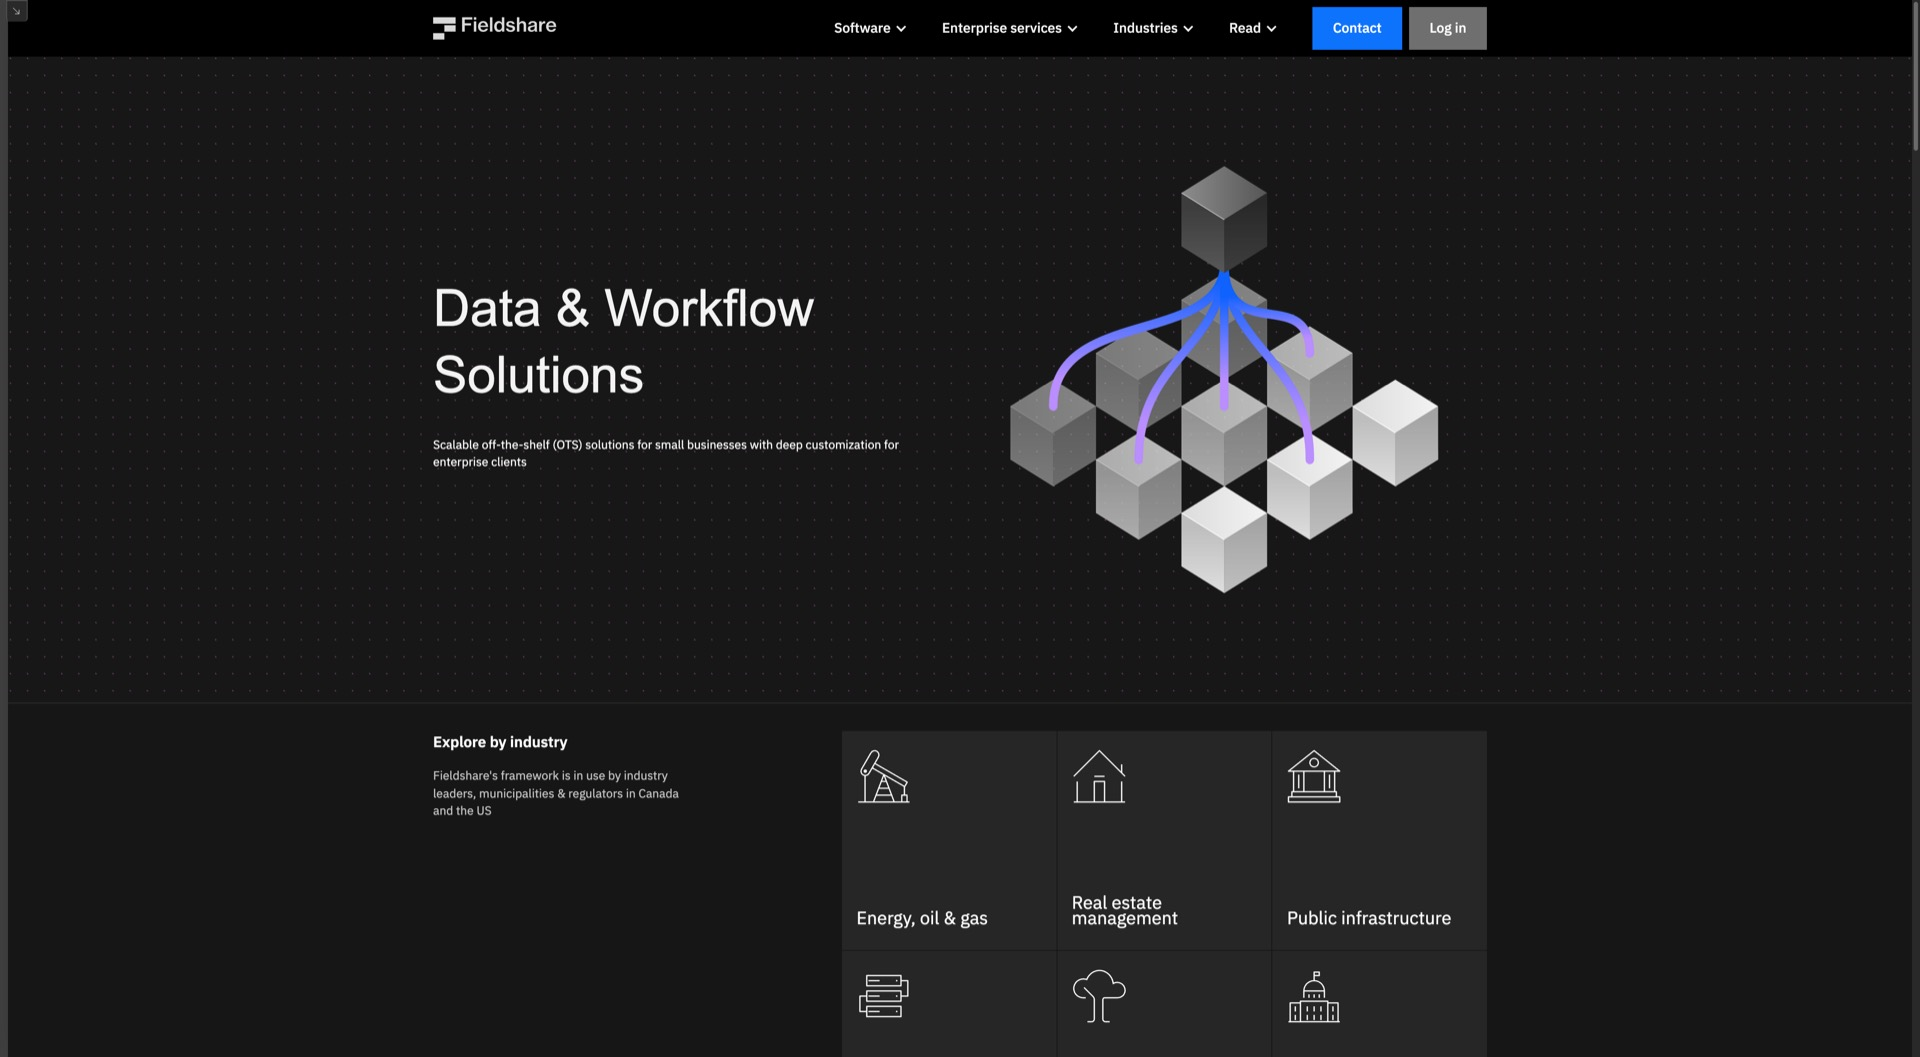
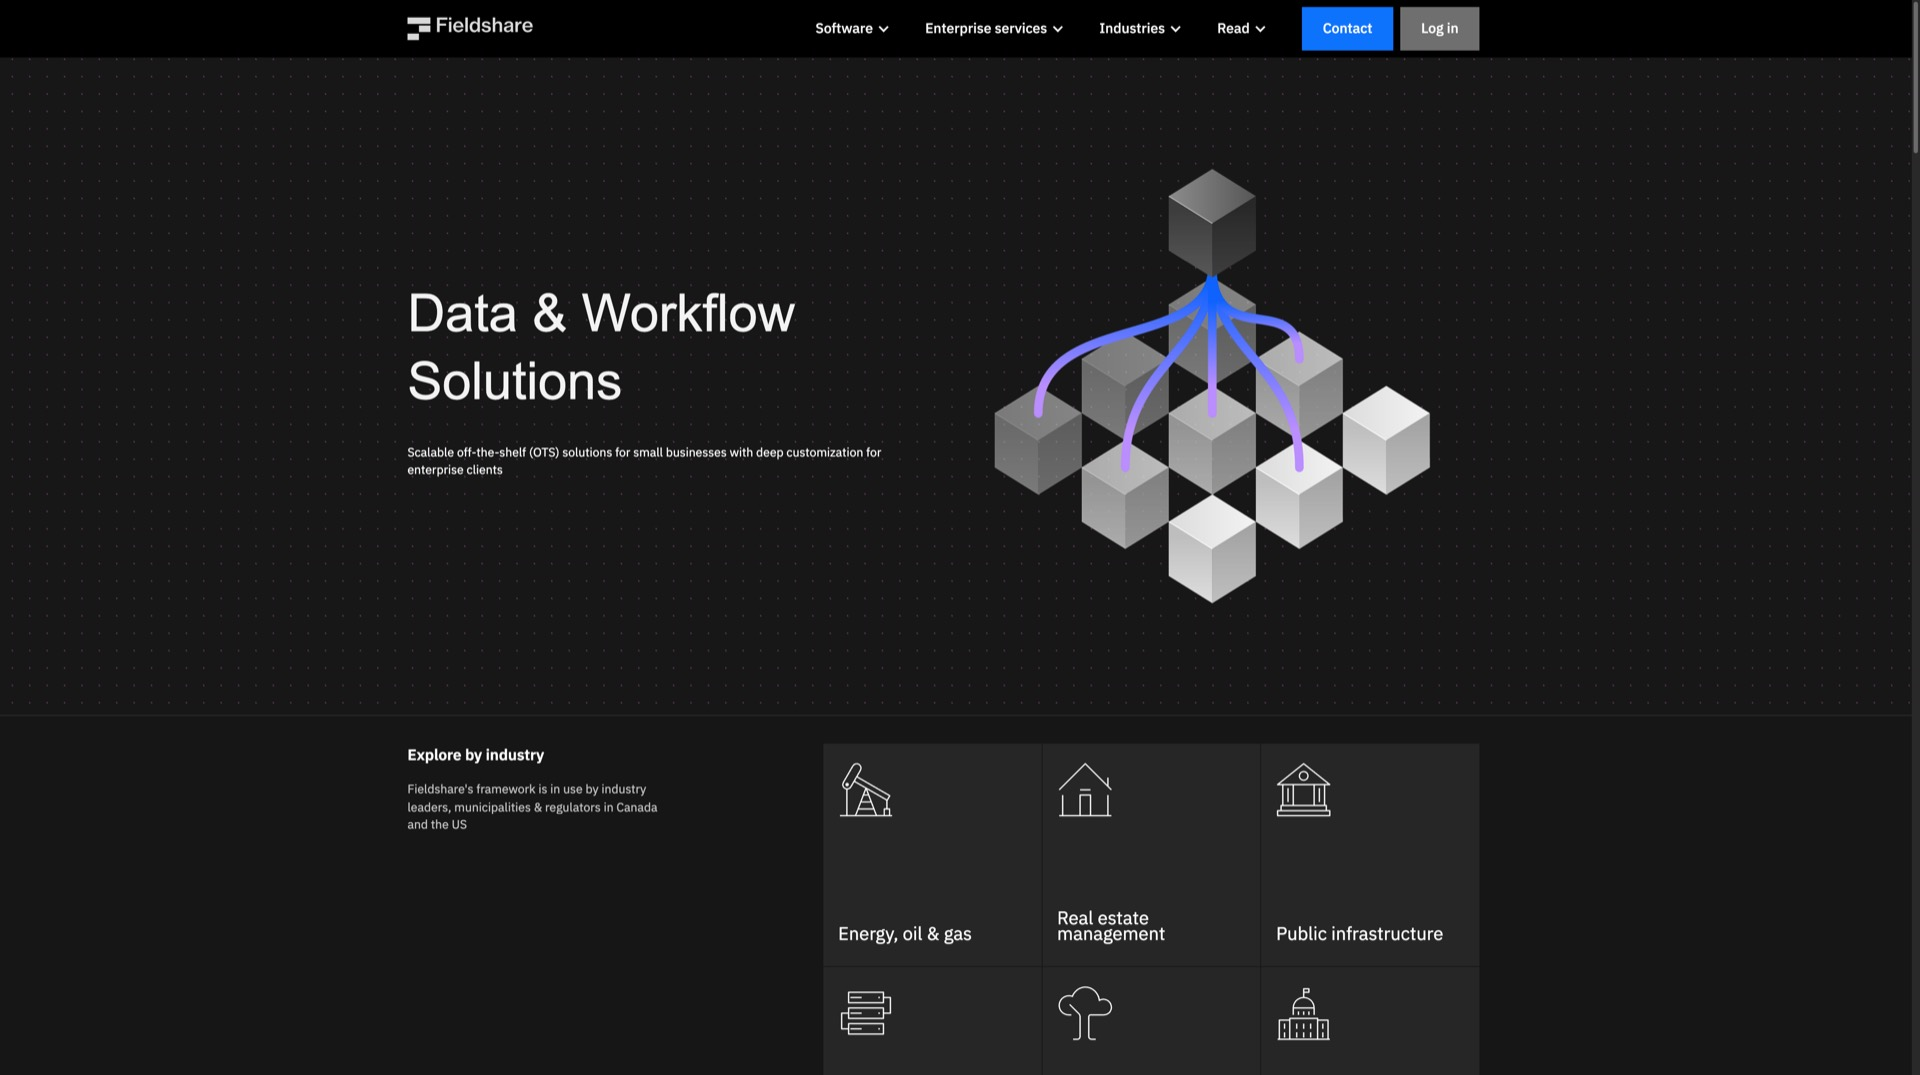
fix: CTA copy, section labels, slider animation, colors, form cleanup
- CTA: capitalize FREE in button, replace "No strings" with "Delivered
  to your inbox in 72 hours"
- Remove 4 of 5 uppercase section labels (keep only on process, matching
  homepage pattern)
- Comparison slider: auto-slide hint animation on first viewport entry
- ServiceFaq: bg-accent-light replaced with bg-background
- Remove Rahul photo from form section
- Replace Fieldshare before screenshot with updated version

diff --git a/src/components/ui/imageComparisonSlider.jsx b/src/components/ui/imageComparisonSlider.jsx
@@ -12,6 +12,7 @@ export default function ImageComparisonSlider({
 }) {
   const [position, setPosition] = useState(initialPosition);
   const [isDragging, setIsDragging] = useState(false);
+  const [hasInteracted, setHasInteracted] = useState(false);
   const containerRef = useRef(null);
 
   const handleMove = useCallback((clientX) => {
@@ -53,12 +54,48 @@ export default function ImageComparisonSlider({
     };
   }, [isDragging, handleMouseMove, handleTouchMove, stopDragging]);
 
+  useEffect(() => {
+    if (hasInteracted) return;
+    const observer = new IntersectionObserver(
+      ([entry]) => {
+        if (!entry.isIntersecting) return;
+        observer.disconnect();
+        const timeout = setTimeout(() => {
+          let frame = 0;
+          const totalFrames = 40;
+          const animate = () => {
+            frame++;
+            const progress = frame / totalFrames;
+            const eased = 1 - Math.pow(1 - progress, 3);
+            if (frame <= totalFrames / 2) {
+              setPosition(50 - eased * 20);
+            } else {
+              setPosition(30 + (eased - 0.5) * 2 * 20);
+            }
+            if (frame < totalFrames) requestAnimationFrame(animate);
+            else setPosition(50);
+          };
+          requestAnimationFrame(animate);
+        }, 600);
+        return () => clearTimeout(timeout);
+      },
+      { threshold: 0.5 }
+    );
+    if (containerRef.current) observer.observe(containerRef.current);
+    return () => observer.disconnect();
+  }, [hasInteracted]);
+
+  const startInteraction = () => {
+    setIsDragging(true);
+    setHasInteracted(true);
+  };
+
   return (
     <div
       ref={containerRef}
       className={cn('relative w-full overflow-hidden select-none group rounded-2xl', className)}
-      onMouseDown={() => setIsDragging(true)}
-      onTouchStart={() => setIsDragging(true)}
+      onMouseDown={startInteraction}
+      onTouchStart={startInteraction}
     >
       <img
         src={beforeImage}

diff --git a/src/pages/services/WebDesign.jsx b/src/pages/services/WebDesign.jsx
@@ -258,11 +258,11 @@ export default function WebDesign() {
             onClick={() => window.dataLayer?.push({ event: 'cta_click', cta_location: 'web_design_hero' })}
             className="inline-flex items-center gap-2 rounded-xl bg-accent px-10 py-4 font-sans font-bold text-lg text-white shadow-[0_0_20px_rgba(0,112,243,0.3)] transition-all hover:bg-accent/90 hover:shadow-[0_0_30px_rgba(0,112,243,0.4)] animate-[subtlePulse_3s_ease-in-out_infinite]"
           >
-            Get a free homepage mockup
+            Get a FREE homepage mockup
             <ArrowRight size={18} strokeWidth={2} className="opacity-70" />
           </Link>
           <p className="mt-4 font-caveat text-xl text-textMuted">
-            Free. 72 hours. No strings.
+            Delivered to your inbox in 72 hours.
           </p>
         </div>
       </section>
@@ -270,9 +270,6 @@ export default function WebDesign() {
       {/* ── PORTFOLIO SHOWCASE ── */}
       <section className="bg-background py-16 md:py-24 px-6 md:px-12">
         <div className="max-w-6xl mx-auto">
-          <p className="hr-reveal opacity-0 mb-4 font-sans text-sm uppercase tracking-[0.2em] text-accent">
-            Our work
-          </p>
           <h2 className="hr-reveal opacity-0 font-sans font-extrabold text-2xl md:text-4xl tracking-tight leading-[1.1] text-text mb-4">
             Every site is different. Because every business is.
           </h2>
@@ -359,9 +356,6 @@ export default function WebDesign() {
       {/* ── 2. PAIN / PROBLEM ── */}
       <section className="bg-surface py-20 md:py-28 px-6 md:px-12">
         <div className="max-w-6xl mx-auto">
-          <p className="hr-reveal opacity-0 mb-4 font-sans text-sm uppercase tracking-[0.2em] text-accent">
-            The problem
-          </p>
           <h2 className="hr-reveal opacity-0 font-sans font-extrabold text-2xl md:text-4xl tracking-tight leading-[1.1] text-text mb-12">
             Most websites fail before they launch.
           </h2>
@@ -382,9 +376,6 @@ export default function WebDesign() {
       {/* ── 3. WHAT YOU GET ── */}
       <section className="bg-background py-20 md:py-28 px-6 md:px-12">
         <div className="max-w-6xl mx-auto">
-          <p className="hr-reveal opacity-0 mb-4 font-sans text-sm uppercase tracking-[0.2em] text-accent">
-            What you get
-          </p>
           <h2 className="hr-reveal opacity-0 font-sans font-extrabold text-2xl md:text-4xl tracking-tight leading-[1.1] text-text mb-12">
             A website built to be found, trusted, and acted on.
           </h2>
@@ -453,9 +444,6 @@ export default function WebDesign() {
       {/* ── 5. BEFORE / AFTER SLIDER ── */}
       <section className="bg-background py-20 md:py-28 px-6 md:px-12">
         <div className="max-w-4xl mx-auto">
-          <p className="hr-reveal opacity-0 mb-4 font-sans text-sm uppercase tracking-[0.2em] text-accent">
-            Results
-          </p>
           <h2 className="hr-reveal opacity-0 font-sans font-extrabold text-2xl md:text-4xl tracking-tight leading-[1.1] text-text mb-4">
             The difference a real website makes.
           </h2>
@@ -538,12 +526,7 @@ export default function WebDesign() {
             <p className="font-sans text-lg text-textMuted leading-relaxed mb-6">
               Fill out this form and we will design a mockup of your homepage. Delivered in 72 hours. No commitment, no pitch.
             </p>
-            <div className="flex items-center gap-3 mb-2">
-              <div className="w-10 h-10 rounded-full overflow-hidden border border-accent/20">
-                <img src="/images/rahul.webp" alt="Rahul Lalia" className="w-full h-full object-cover" loading="lazy" width="40" height="40" />
-              </div>
-              <p className="font-caveat text-xl text-textMuted">We will personally review every request.</p>
-            </div>
+            <p className="font-caveat text-xl text-textMuted">We personally review every request.</p>
           </div>
           <div className="hr-reveal opacity-0">
             <MockupRequestForm />

diff --git a/src/components/services/ServiceFaq.jsx b/src/components/services/ServiceFaq.jsx
@@ -18,7 +18,7 @@ export default function ServiceFaq({ faqs, serviceName }) {
     if (!faqs || faqs.length === 0) return null;
 
     return (
-        <section className="bg-accent-light border-t border-accent-border py-20 md:py-28 px-6 md:px-12">
+        <section className="bg-background border-t border-accent-border py-20 md:py-28 px-6 md:px-12">
             <div className="max-w-3xl mx-auto">
                 <h2 className="font-sans font-extrabold text-text text-2xl md:text-4xl tracking-tight leading-[1.1] mb-10">
                     Frequently asked questions